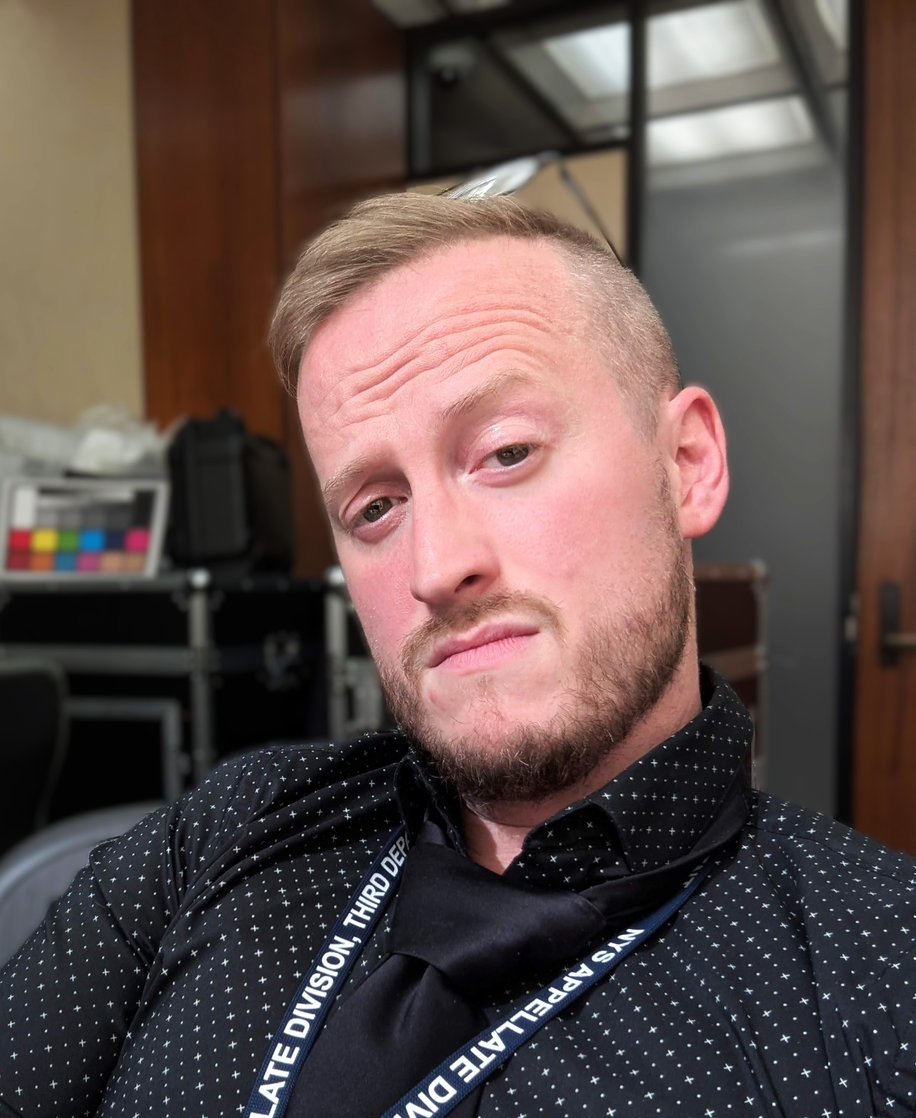
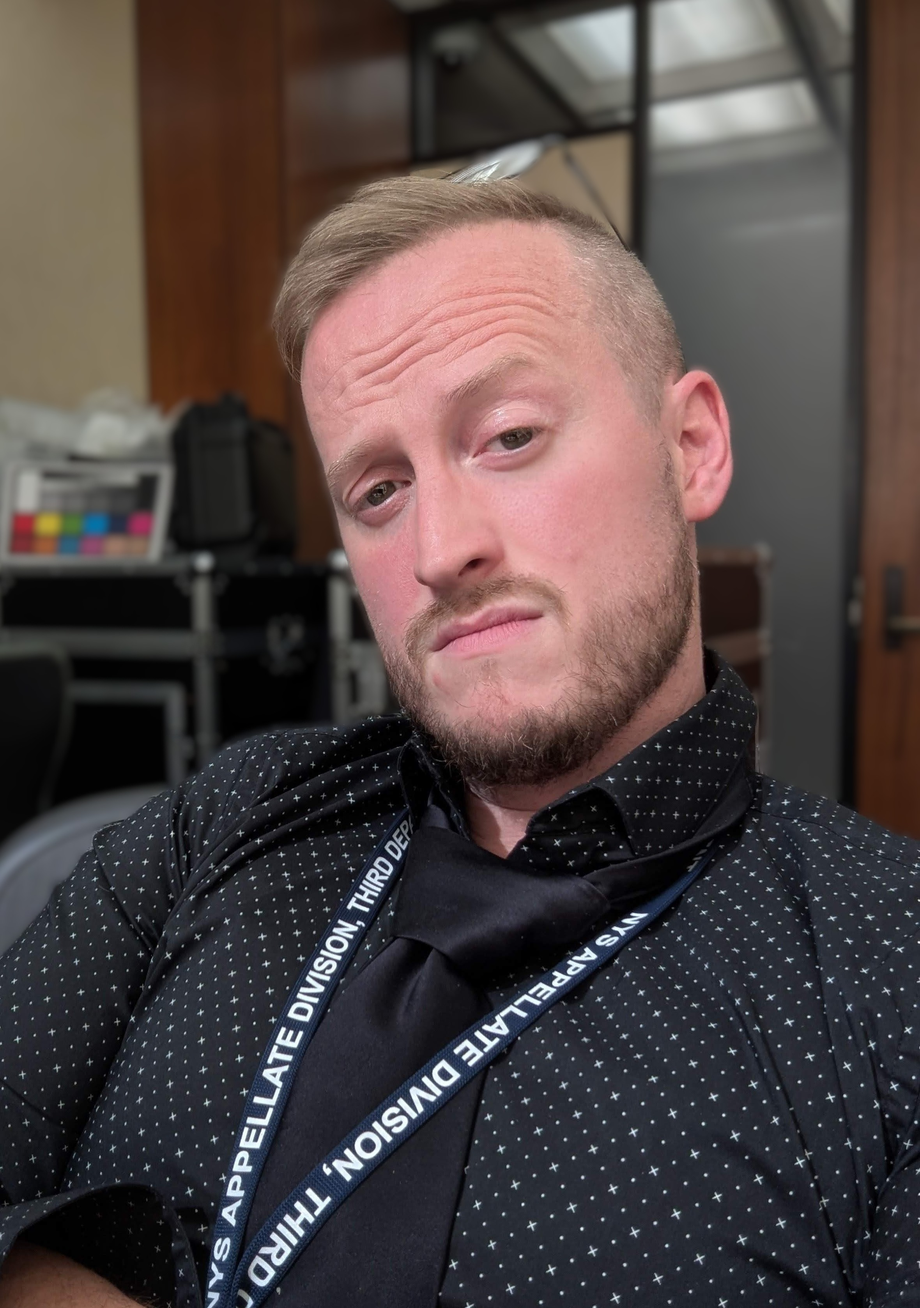
pic update

diff --git a/index.html b/index.html
@@ -3,7 +3,7 @@
 <head>
     <meta charset="UTF-8">
     <meta name="viewport" content="width=device-width, initial-scale=1.0">
-    <title>Jonny Blevins | Technical Project Manager</title>
+    <title>Jonny Blevins | Tech Builder & Problem Solver</title>
 
     <meta property="og:title" content="Jonny Blevins - Portfolio">
     <meta property="og:description" content="Creative consensus builder | Data-driven mind | Technical Project Manager">
@@ -48,8 +48,8 @@
             <div class="hero-content">
                 <div class="hero-text fade-in">
                     <h1>Jonny Blevins</h1>
-                    <h2>Technical Project Manager</h2>
-                    <p class="tagline">People person with a data-driven mind.</p>
+                    <h2>Infrastructure & Data Professional</h2>
+                    <p class="tagline">I Make Tech Work for People</p>
                     <div class="social-links">
                         <a href="https://www.linkedin.com/in/jonnyblevins/" target="_blank" aria-label="LinkedIn">
                             <ion-icon name="logo-linkedin"></ion-icon>
